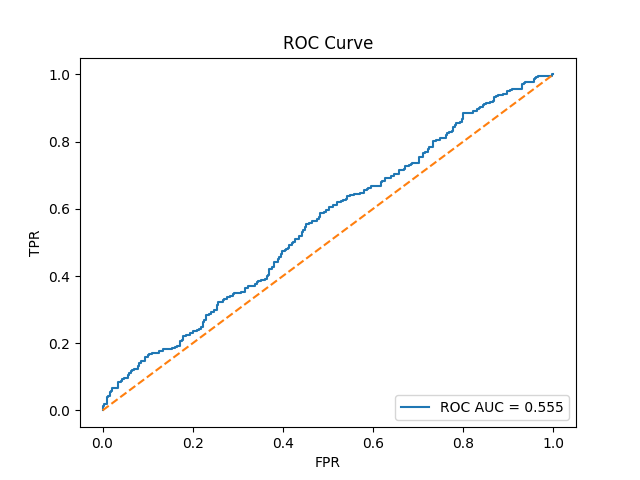
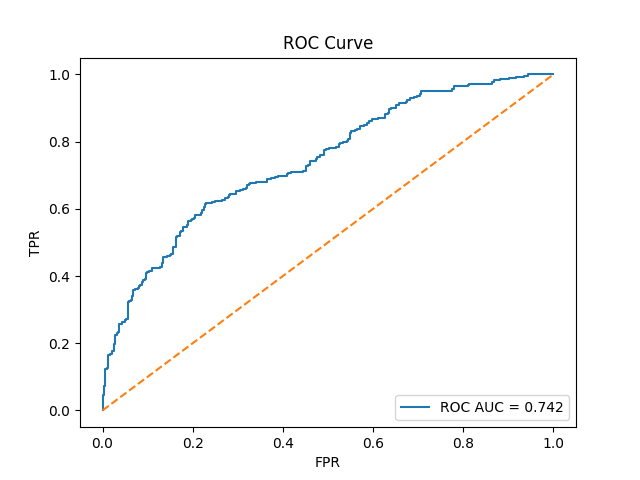
melhora geração do dataset

diff --git a/train_model.py b/train_model.py
@@ -18,30 +18,56 @@ DATA_PATH = os.path.join("data", "alunos.csv")
 
 def generate_synthetic(n=2000, seed=RANDOM_STATE):
     np.random.seed(seed)
+
     df = pd.DataFrame({
         "idade": np.random.randint(17, 36, size=n),
         "sexo": np.random.choice(["M", "F"], size=n, p=[0.45, 0.55]),
         "tipo_escola_medio": np.random.choice(["publica", "privada"], size=n, p=[0.7, 0.3]),
+
         "nota_enem": np.clip(np.random.normal(600, 100, n), 200, 1000),
-        "renda_familiar": np.clip(np.random.exponential(2.0, n), 0.1, 20.0),
-        "trabalha": np.random.choice([0,1], size=n, p=[0.6, 0.4]),
-        "horas_trabalho_semana": lambda s: np.where(s["trabalha"]==1, np.random.randint(5,60,size=n), 0),
         "cra_1_sem": np.clip(np.random.normal(6.0, 1.5, n), 0, 10),
-        "reprovacoes_1_sem": np.random.poisson(0.3, n),
-        "bolsista": np.random.choice([0,1], size=n, p=[0.8, 0.2]),
-        "distancia_campus_km": np.clip(np.random.exponential(5, n), 0, 100),
+        "reprovacoes_1_sem": np.random.poisson(0.4, n),
+
+        "renda_familiar": np.clip(np.random.exponential(2.5, n), 0.1, 20.0),
+        "bolsista": np.random.choice([0, 1], size=n, p=[0.75, 0.25]),
+
+        "trabalha": np.random.choice([0, 1], size=n, p=[0.55, 0.45]),
+        "distancia_campus_km": np.clip(np.random.exponential(7, n), 0, 80),
     })
-    df["horas_trabalho_semana"] = df.apply(lambda row: np.random.randint(5,60) if row["trabalha"]==1 else 0, axis=1)
-    p = (
-        0.15*(df["trabalha"]) +
-        0.2*(df["reprovacoes_1_sem"]) +
-        0.2*(df["distancia_campus_km"]>20).astype(int) -
-        0.25*(df["cra_1_sem"]/10) -
-        0.1*(df["bolsista"]) +
-        np.random.normal(0, 0.1, n)
+
+    df["horas_trabalho_semana"] = df.apply(
+        lambda row: np.random.randint(10, 45) if row["trabalha"] == 1 else 0,
+        axis=1
     )
-    p = 1/(1+np.exp(- (p*2))) 
+
+    p = (
+        -0.55 * (df["cra_1_sem"] - 5) +
+        0.45 * df["reprovacoes_1_sem"] +
+
+        -0.20 * df["renda_familiar"] +
+        -0.25 * df["bolsista"] +
+
+        0.40 * df["trabalha"] +
+        0.015 * df["horas_trabalho_semana"] +
+
+        0.03 * df["distancia_campus_km"] +
+
+        0.60 * (
+            (df["cra_1_sem"] < 5).astype(int)
+            * (df["trabalha"] == 1).astype(int)
+        ) +
+        0.45 * (
+            (df["distancia_campus_km"] > 25).astype(int)
+            * (df["renda_familiar"] < 2).astype(int)
+        ) +
+
+        np.random.normal(0, 0.05, n)
+    )
+
+    p = 1 / (1 + np.exp(-p * 0.8))
+
     df["evasao_ate_1ano"] = (np.random.rand(n) < p).astype(int)
+
     return df
 
 def load_data():
